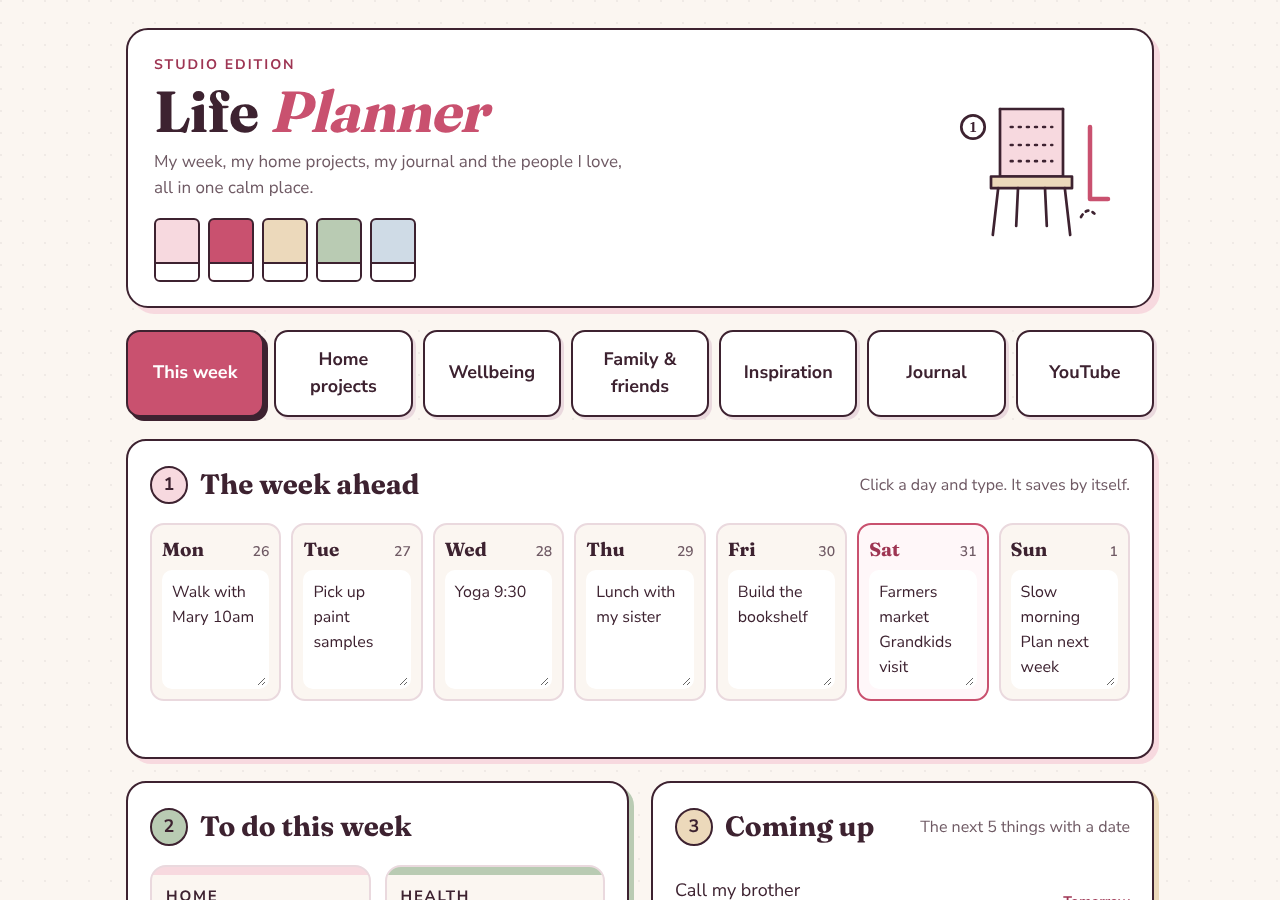
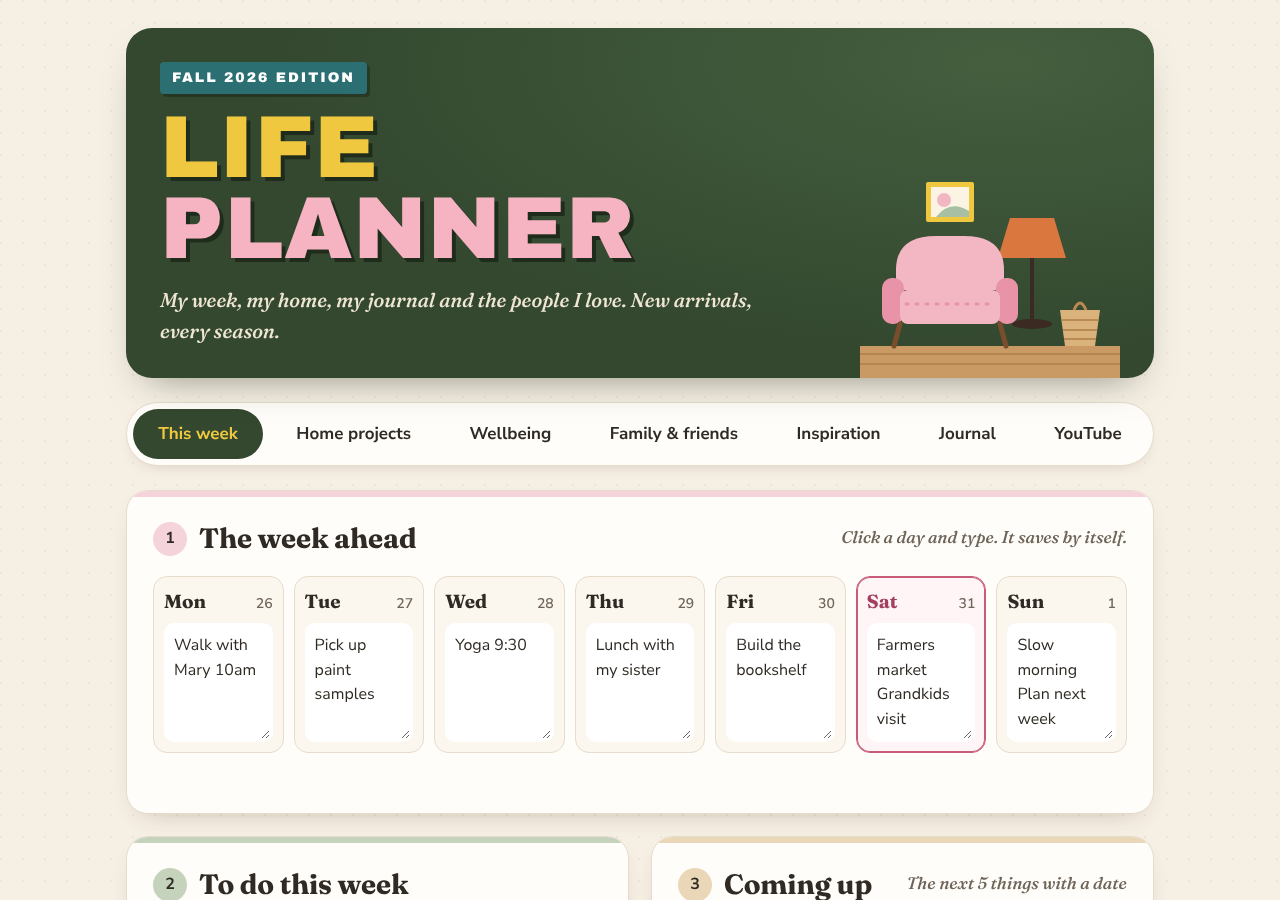
Restyle Studio as a refined seasonal home catalogue
Forest green cover with mustard and dusty pink lettering, a cosy still
life, soft pill tabs and warm linen cards. Grown-up but still playful.

Claude-Session: https://claude.ai/code/session_01ED3dfkgLxSrK1wkukGmhnx

diff --git a/themes/studio.html b/themes/studio.html
@@ -6,7 +6,7 @@
 <title>Life Planner · Studio</title>
 <link rel="preconnect" href="https://fonts.googleapis.com">
 <link rel="preconnect" href="https://fonts.gstatic.com" crossorigin>
-<link rel="stylesheet" href="https://fonts.googleapis.com/css2?family=Fraunces:opsz,wght@9..144,500;9..144,700&family=Nunito+Sans:opsz,wght@6..12,400;6..12,600;6..12,700&display=swap">
+<link rel="stylesheet" href="https://fonts.googleapis.com/css2?family=Archivo+Black&family=Fraunces:ital,opsz,wght@0,9..144,500;0,9..144,700;1,9..144,500&family=Nunito+Sans:opsz,wght@6..12,400;6..12,600;6..12,700&display=swap">
 <style>
 /* Studio: a calm, design-lover's planner. Warm paper, blush pink, birch wood and sage,
    with flat-pack "assembly instruction" touches (numbered steps, line drawings, paint chips).
@@ -162,29 +162,110 @@ input[type="color"].field { padding: 4px; height: 50px; width: 70px; flex: 0 0 7
   .page { padding-left: 46px; background: linear-gradient(90deg, transparent 32px, #f2b7c4 32px, #f2b7c4 34px, transparent 34px), repeating-linear-gradient(#fffdfb 0 33px, #ecdfe3 33px 34px); background-attachment: local; }
 }
 @media (prefers-reduced-motion: reduce) { .tab { transition: none; } }
+
+/* ===== Refined "seasonal catalogue" look =====
+   Warm linen, forest green, mustard lettering, dusty pink, terracotta and honey wood. */
+:root {
+  --paper: #f6efe4; --card: #fffdf9; --ink: #2f2a24; --muted: #6e6458; --line: #e7dccb;
+  --blush: #f4d3da; --rose: #c75b78; --rose-dark: #a2405e; --birch: #ead7b7; --birch-dark: #b38a55;
+  --sage: #c6d3bc; --sage-dark: #4f6b4a; --sky: #d7e2e2;
+  --forest: #33482f; --forest-2: #445e3e; --mustard: #f0c840; --terracotta: #c96a36; --wood: #c99a63;
+  --f-display: "Archivo Black", "Arial Black", Impact, sans-serif;
+}
+body { background-color: var(--paper); background-image: radial-gradient(circle at 1px 1px, rgba(110,90,60,.07) 1px, transparent 0); }
+.wrap { gap: 24px; }
+
+/* Header: catalogue cover */
+.mast { position: relative; overflow: hidden; grid-template-columns: minmax(0, 1fr) 260px; align-items: end; gap: 10px 24px;
+  background: radial-gradient(120% 140% at 85% 10%, var(--forest-2), var(--forest) 60%); color: #fbf3e4;
+  border: 0; border-radius: 26px; padding: 34px 34px 0; box-shadow: 0 18px 40px -22px rgba(40,50,30,.6); }
+.mast-copy { padding-bottom: 32px; }
+.edition { display: inline-block; margin: 0 0 14px; padding: 5px 12px; background: #2c6f73; color: #fff; font-family: var(--f-display); font-size: 14px; letter-spacing: .14em; text-transform: uppercase; border-radius: 4px; box-shadow: 3px 3px 0 rgba(0,0,0,.25); }
+.mast h1 { font-family: var(--f-display); font-weight: 400; font-size: clamp(48px, 8vw, 88px); line-height: .92; letter-spacing: .01em; text-transform: uppercase; }
+.h-life { color: var(--mustard); text-shadow: 4px 4px 0 #1f2c1c; }
+.h-plan { display: block; color: #f6b3c2; text-shadow: 4px 4px 0 #1f2c1c; }
+.mast .lede { color: #efe6d4; font-family: var(--f-head); font-style: italic; font-size: 20px; margin-top: 14px; }
+.mast .still { width: 260px; height: auto; display: block; align-self: end; }
+
+/* Tabs: soft pills, selected in forest with mustard text */
+.tabs { gap: 8px; background: var(--card); border: 1px solid var(--line); border-radius: 999px; padding: 6px; box-shadow: 0 6px 18px -12px rgba(60,40,20,.35); }
+.tab { border: 0; border-radius: 999px; box-shadow: none; background: transparent; font-size: 17px; padding: 12px 14px; color: var(--ink); }
+.tab:hover { transform: none; box-shadow: none; background: var(--blush); }
+.tab[aria-selected="true"] { background: var(--forest); color: var(--mustard); box-shadow: none; }
+@media (min-width: 761px) { .tab { flex: 1 1 auto; padding: 12px 10px; white-space: nowrap; } }
+
+/* Cards */
+.panel { border: 1px solid var(--line); border-radius: 22px; padding: 26px; box-shadow: 0 10px 28px -18px rgba(70,50,25,.45); position: relative; overflow: hidden; }
+.panel::before { content: ""; position: absolute; left: 0; right: 0; top: 0; height: 6px; background: var(--c, var(--blush)); }
+.panel h2 { font-size: 28px; font-weight: 600; letter-spacing: -.005em; }
+.step { width: 34px; height: 34px; border: 0; background: var(--c, var(--blush)); color: var(--ink); font-size: 16px; }
+.hint { font-style: italic; font-family: var(--f-head); font-size: 17px; }
+
+.field { background: #fbf6ee; border: 1px solid var(--line); }
+.btn { border: 0; background: var(--forest); color: #fff; border-radius: 999px; padding: 11px 22px; }
+.btn:hover { background: var(--rose-dark); }
+.btn.ghost { border: 1px solid var(--line); background: var(--card); color: var(--ink); }
+.check { border: 2px solid #8c7b66; border-radius: 50%; }
+.check:checked { background: var(--forest); border-color: var(--forest); }
+.check:checked::after { color: var(--mustard); }
+.item { border-bottom: 1px solid var(--line); }
+.pill { border: 0; }
+.day { border: 1px solid var(--line); background: #fbf6ee; }
+.day.today { border-color: var(--rose); background: #fff4f6; box-shadow: inset 0 0 0 1px var(--rose); }
+.lane { border: 1px solid var(--line); }
+.dots div { border: 1px solid var(--line); }
+.dots div.on { background: var(--forest); border-color: var(--forest); color: var(--mustard); }
+.swatch, .swatch .nm { border-color: var(--line); }
+.swatch { border-width: 1px; box-shadow: 0 6px 16px -12px rgba(60,40,20,.5); }
+.mood { border: 1px solid var(--line); }
+.mood[aria-pressed="true"] { background: var(--rose); border-color: var(--rose); color: #fff; }
+.page { border: 1px solid var(--line); }
+
+/* YouTube "new arrivals" bar, echoing the catalogue cover */
+.newbar { background: var(--forest); border: 0; border-radius: 22px; padding: 18px 22px; box-shadow: 0 10px 28px -18px rgba(40,50,30,.7); }
+.newbar b { font-family: var(--f-display); font-weight: 400; font-size: 32px; color: var(--mustard); text-shadow: 3px 3px 0 #1f2c1c; }
+.newbar select { border: 0; }
+.tag-new { background: var(--mustard); color: var(--forest); font-family: var(--f-display); font-weight: 400; }
+
+@media (max-width: 760px) {
+  .mast { grid-template-columns: minmax(0, 1fr); padding: 26px 22px 0; }
+  .mast-copy { padding-bottom: 6px; }
+  .mast .still { width: 210px; justify-self: end; margin-right: -6px; }
+  .tabs { border-radius: 22px; }
+}
+@media (max-width: 560px) {
+  .mast .still { display: block; width: 180px; }
+  .tab { flex-basis: 40%; }
+}
 </style>
 </head>
 <body>
 <div class="wrap">
   <header class="mast">
-    <div>
-      <p class="eyebrow">Studio edition</p>
-      <h1>Life <em>Planner</em></h1>
-      <p class="lede">My week, my home projects, my journal and the people I love, all in one calm place.</p>
-      <div class="chips" aria-hidden="true">
-        <span class="chip" style="--c:#f7d9df"></span><span class="chip" style="--c:#c9516f"></span><span class="chip" style="--c:#ecd9bb"></span><span class="chip" style="--c:#b9cbb3"></span><span class="chip" style="--c:#cfdbe6"></span>
-      </div>
+    <div class="mast-copy">
+      <p class="edition"><span id="edition">Fall 2026</span> edition</p>
+      <h1><span class="h-life">Life</span> <span class="h-plan">Planner</span></h1>
+      <p class="lede">My week, my home, my journal and the people I love. New arrivals, every season.</p>
     </div>
-    <!-- A little flat-pack chair and hex key, drawn like an assembly instruction -->
-    <svg viewBox="0 0 200 170" fill="none" stroke="currentColor" stroke-width="3" stroke-linecap="round" stroke-linejoin="round" aria-hidden="true">
-      <path d="M60 20 L60 95 L130 95 L130 20" fill="#f7d9df"/>
-      <path d="M60 20 L130 20"/>
-      <path d="M50 95 L140 95 L140 108 L50 108 Z" fill="#ecd9bb"/>
-      <path d="M58 108 L52 160 M132 108 L138 160 M80 108 L78 150 M110 108 L112 150"/>
-      <path d="M72 40 L118 40 M72 60 L118 60 M72 78 L118 78" stroke-dasharray="2 7"/>
-      <path d="M160 40 L160 120 L180 120" stroke-width="5" stroke="#c9516f"/>
-      <circle cx="30" cy="40" r="13" fill="#fff"/><text x="30" y="46" text-anchor="middle" font-family="Georgia, serif" font-size="17" fill="currentColor" stroke="none" font-weight="700">1</text>
-      <path d="M150 140 q8 -14 18 0" stroke-dasharray="3 5"/>
+    <!-- A cosy still life: armchair, rattan basket, lamp and a vase of flowers -->
+    <svg class="still" viewBox="0 0 260 200" aria-hidden="true">
+      <rect x="0" y="168" width="260" height="32" fill="#c99a63"/>
+      <path d="M0 176 H260 M0 186 H260" stroke="#b5864f" stroke-width="2"/>
+      <path d="M150 40 h44 l12 40 h-68 z" fill="#d9773f"/>
+      <path d="M172 80 v62" stroke="#3a2a22" stroke-width="4"/>
+      <ellipse cx="172" cy="146" rx="20" ry="5" fill="#3a2a22"/>
+      <path d="M36 92 q0 -34 40 -34 h28 q40 0 40 34 v20 h-108 z" fill="#f3b6c3"/>
+      <rect x="22" y="100" width="22" height="46" rx="10" fill="#e893a7"/>
+      <rect x="136" y="100" width="22" height="46" rx="10" fill="#e893a7"/>
+      <rect x="40" y="112" width="100" height="34" rx="8" fill="#f3b6c3"/>
+      <path d="M46 126 h88" stroke="#e893a7" stroke-width="3" stroke-dasharray="2 8" stroke-linecap="round"/>
+      <path d="M40 146 l-6 22 M140 146 l6 22" stroke="#7a4e2d" stroke-width="5" stroke-linecap="round"/>
+      <path d="M200 132 h40 l-5 36 h-30 z" fill="#d9b27c"/>
+      <path d="M202 142 h36 M203 152 h34 M204 161 h32" stroke="#b98a52" stroke-width="2"/>
+      <path d="M214 132 q6 -14 12 0" stroke="#b98a52" stroke-width="3" fill="none"/>
+      <rect x="66" y="4" width="48" height="40" rx="2" fill="#f0c840"/>
+      <rect x="71" y="9" width="38" height="30" fill="#fbf3e4"/>
+      <circle cx="84" cy="22" r="7" fill="#f3b6c3"/><path d="M76 39 q14 -18 33 -6 v6 z" fill="#a9bfa4"/>
     </svg>
   </header>
 
@@ -377,7 +458,7 @@ input[type="color"].field { padding: 4px; height: 50px; width: 70px; flex: 0 0 7
           <button class="btn" type="submit">Add</button>
         </form>
       </div>
-      <div class="panel" style="--c: var(--forest)">
+      <div class="panel" style="--c: var(--blush)">
         <div class="panel-head"><h2><span class="step">3</span>Finds wishlist</h2><span class="hint">Click the label: spotted, want it, bought</span></div>
         <ul class="list" id="list-tries"></ul>
         <form class="addrow" data-add="tries">
@@ -711,7 +792,8 @@ input[type="color"].field { padding: 4px; height: 50px; width: 70px; flex: 0 0 7
 
   var seasonNow = ["Winter", "Winter", "Spring", "Spring", "Spring", "Summer", "Summer", "Summer", "Fall", "Fall", "Fall", "Holidays"][today.getMonth()];
   $("#season").value = state.season || seasonNow;
-  $("#season").addEventListener("change", function () { state.season = this.value; save(); });
+  $("#edition").textContent = (state.season || seasonNow) + " " + today.getFullYear();
+  $("#season").addEventListener("change", function () { state.season = this.value; save(); $("#edition").textContent = this.value + " " + today.getFullYear(); });
 
   function renderAll() {
     ["projects", "shopping", "measures", "moves", "appts", "birthdays", "plans", "ideas", "watch", "channels", "tries"].forEach(renderList);

diff --git a/README.md b/README.md
@@ -7,7 +7,7 @@ A free, pretty planner for your week, your goals and the things you care about. 
 | Girly Pop | Arcade | Studio |
 |---|---|---|
 | ![Girly Pop preview](themes/previews/girly-pop.png) | ![Arcade preview](themes/previews/arcade.png) | ![Studio preview](themes/previews/studio.png) |
-| Pink 2000s glam: cut-out letters, sparkles and a flip-phone screen. Tabs for your week, goals, job search, fitness and creative projects. | Dark gaming style with neon colours. Earn XP by ticking things off. Made for a student: week, uni deadlines, work, clubs and gym. | Calm and design-loving: blush pink, birch and sage, with big easy-to-read text. Week, home projects, wellbeing, family and friends, a colour mood board, a journal, and a YouTube watch list with a finds wishlist. |
+| Pink 2000s glam: cut-out letters, sparkles and a flip-phone screen. Tabs for your week, goals, job search, fitness and creative projects. | Dark gaming style with neon colours. Earn XP by ticking things off. Made for a student: week, uni deadlines, work, clubs and gym. | Refined and decor-loving, like a seasonal home catalogue: forest green, mustard, dusty pink and warm wood, with big easy-to-read text. Week, home projects, wellbeing, family and friends, a colour mood board, a journal, and a YouTube watch list with a finds wishlist. |
 | [`themes/girly-pop.html`](themes/girly-pop.html) | [`themes/arcade.html`](themes/arcade.html) | [`themes/studio.html`](themes/studio.html) |
 
 Each one is a single file. They all have a 7-day week you can type into, lists you can tick off, and example content so you can see how it works.
